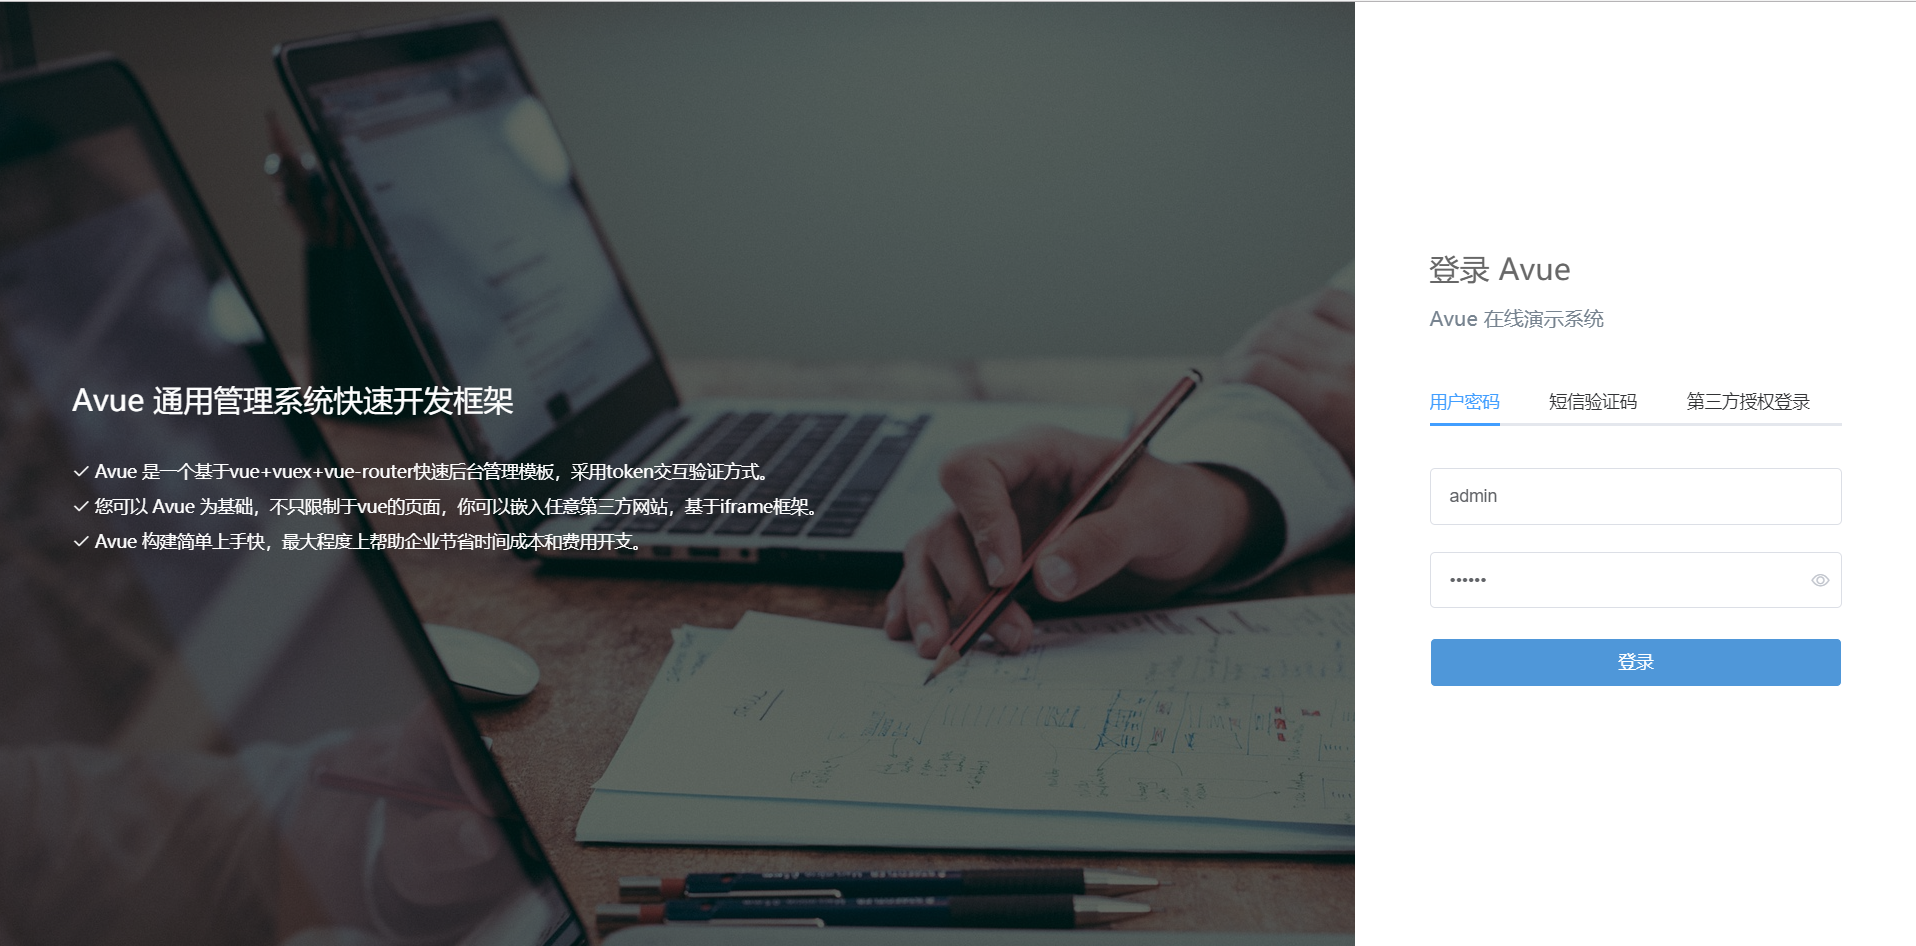
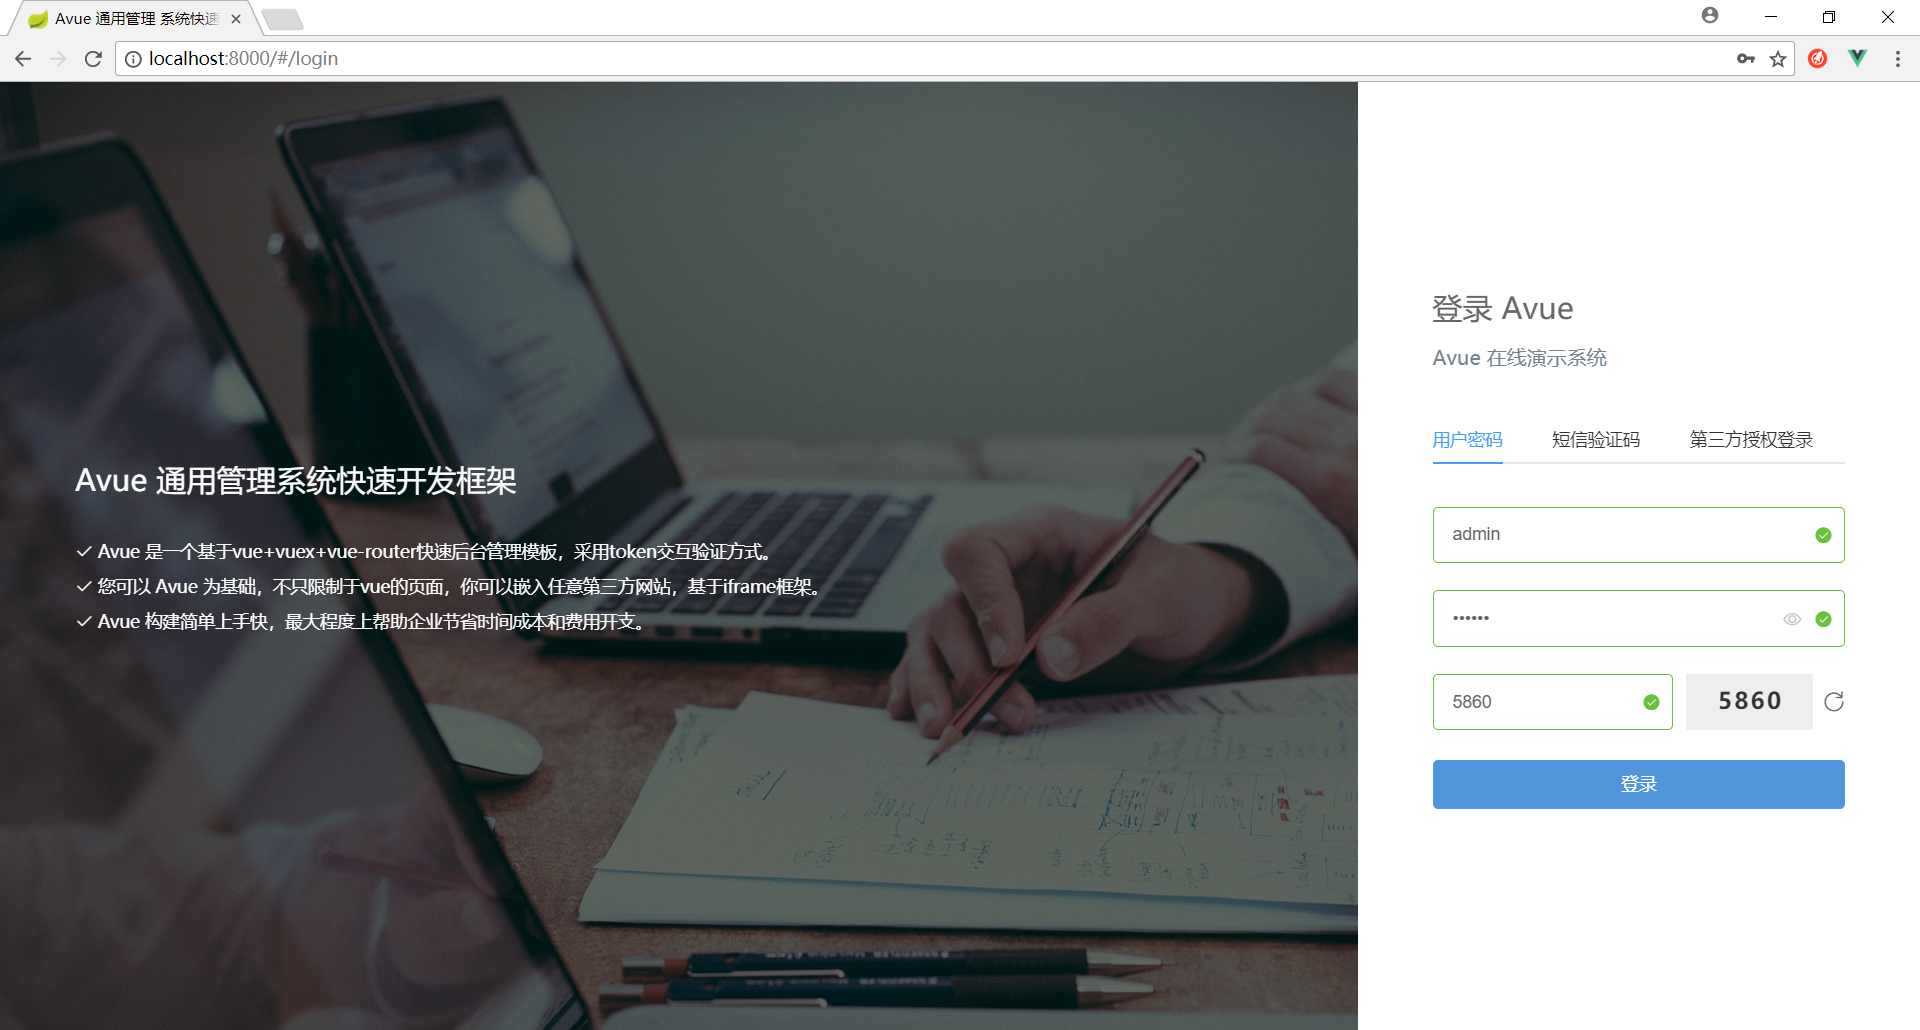
登录支持本地验证码和服务端验证码

diff --git a/src/page/login/userlogin.vue b/src/page/login/userlogin.vue
@@ -1,21 +1,37 @@
 <template>
    <el-form class="login-form" status-icon :rules="loginRules" ref="loginForm" :model="loginForm" label-width="0" >
         <el-form-item prop="username">
-        <el-input @keyup.enter.native="handleLogin" v-model="loginForm.username" auto-complete="off" placeholder="请输入用户名"></el-input>
+          <el-input @keyup.enter.native="handleLogin" v-model="loginForm.username" auto-complete="off" placeholder="请输入用户名"></el-input>
         </el-form-item>
         <el-form-item prop="password">
-        <el-input @keyup.enter.native="handleLogin" :type="passwordType" v-model="loginForm.password" auto-complete="off" placeholder="请输入密码">
-            <i class="el-icon-view el-input__icon" slot="suffix" @click="showPassword"></i>
-        </el-input>
+          <el-input @keyup.enter.native="handleLogin" :type="passwordType" v-model="loginForm.password" auto-complete="off" placeholder="请输入密码">
+              <i class="el-icon-view el-input__icon" slot="suffix" @click="showPassword"></i>
+          </el-input>
+        </el-form-item>
+        <el-form-item prop="code">
+          <el-row :span="24">
+            <el-col :span="14">
+                  <el-input @keyup.enter.native="handleLogin"  :maxlength="code.len" v-model="loginForm.code" auto-complete="off" placeholder="请输入验证码"></el-input>    
+            </el-col>
+             <el-col :span="10">
+               <div class="login-code">
+                  <span  class="login-code-img" @click="refreshCode" v-if="code.type == 'text'">{{code.value}}</span>
+                  <img :src="code.src" class="login-code-img" @click="refreshCode" v-else/>
+                  <i class="icon-shuaxin login-code-icon" @click="refreshCode"></i>
+               </div>
+            </el-col>
+          </el-row>
+          
         </el-form-item>
         <el-form-item>
-        <el-button type="primary" @click.native.prevent="handleLogin"  class="login-submit">登录</el-button>
+          <el-button type="primary" @click.native.prevent="handleLogin"  class="login-submit">登录</el-button>
         </el-form-item>
     </el-form>
 </template>
 
 <script>
 import { isvalidUsername } from "@/util/validate";
+import { randomLenNum } from "@/util/util";
 import { mapGetters } from "vuex";
 export default {
   name: "userlogin",
@@ -27,9 +43,11 @@ export default {
         callback();
       }
     };
-    const validatePassword = (rule, value, callback) => {
-      if (value.length < 6) {
-        callback(new Error("请输入大于6位数的密码"));
+    const validateCode = (rule, value, callback) => {
+      if (this.code.value != value) {
+        this.loginForm.code = "";
+        this.refreshCode();
+        callback(new Error("请输入正确的验证码"));
       } else {
         callback();
       }
@@ -37,26 +55,48 @@ export default {
     return {
       loginForm: {
         username: "admin",
-        password: "123456"
+        password: "123456",
+        code: "",
+        redomStr: ""
+      },
+      code: {
+        src: "",
+        value: "",
+        len: 4,
+        type: "text"
       },
       loginRules: {
         username: [
           { required: true, trigger: "blur", validator: validateUsername }
         ],
         password: [
-          { required: true, trigger: "blur", validator: validatePassword }
+          { required: true, message: "请输入密码", trigger: "blur" },
+          { min: 6, message: "密码长度最少为6位", trigger: "blur" }
+        ],
+        code: [
+          { required: true, message: "请输入验证码", trigger: "blur" },
+          { min: 4, max: 4, message: "验证码长度为4位", trigger: "blur" },
+          { required: true, trigger: "blur", validator: validateCode }
         ]
       },
       passwordType: "password"
     };
   },
-  created() {},
+  created() {
+    this.refreshCode();
+  },
   mounted() {},
   computed: {
     ...mapGetters(["tagWel"])
   },
   props: [],
   methods: {
+    refreshCode() {
+      this.loginForm.redomStr = randomLenNum(this.code.len, true);
+      this.code.type == "text"
+        ? (this.code.value = randomLenNum(this.code.len))
+        : (this.code.src = `${this.codeUrl}/${this.loginForm.redomStr}`);
+    },
     showPassword() {
       this.passwordType == ""
         ? (this.passwordType = "password")

diff --git a/src/util/util.js b/src/util/util.js
@@ -66,6 +66,10 @@ export const findParent = (menu, id) => {
         }
     };
 }
+
+/**
+ * 总体路由处理器
+ */
 export const resolveUrlPath = (url) => {
     let reqUrl = url;
     if (url.indexOf("http") != -1) {
@@ -128,3 +132,14 @@ export const findArray = (dic, value) => {
     }
     return -1;
 }
+/**
+ * 生成随机len位数字
+ */
+export const randomLenNum = (len, date) => {
+    let random = '';
+    random = Math.ceil(Math.random() * 100000000000000).toString().substr(0, len ? len : 4);
+    if (date) random = random + Date.now();
+    return random;
+}
+
+

diff --git a/src/config/env.js b/src/config/env.js
@@ -12,12 +12,13 @@
 
 
 let baseUrl = '';
-let iconfontVersion = '567566_e5xid5qooinklnmi';
-let iconfontUrl = `//at.alicdn.com/t/font_${iconfontVersion}.css`;
+let iconfontVersion = 'sxxk4dft8egq4cxr';
+let iconfontUrl = `//at.alicdn.com/t/font_567566_${iconfontVersion}.css`;
+let codeUrl = `${baseUrl}/code`
 if (process.env.NODE_ENV == 'development') {
 	baseUrl = `http://localhost`;
 } else if (process.env.NODE_ENV == 'production') {
 	baseUrl = `http://localhost`;
 }
 
-export { baseUrl, iconfontUrl }
+export { baseUrl, iconfontUrl, codeUrl }

diff --git a/src/store/modules/user.js b/src/store/modules/user.js
@@ -15,7 +15,7 @@ const user = {
         //根据用户名登录
         LoginByUsername({ commit, state, dispatch }, userInfo) {
             return new Promise((resolve, reject) => {
-                loginByUsername(userInfo.username, userInfo.password).then(res => {
+                loginByUsername(userInfo.username, userInfo.password, userInfo.code, userInfo.redomStr).then(res => {
                     const data = res.data;
                     commit('SET_TOKEN', data);
                     setToken(data);

diff --git a/src/page/login/index.vue b/src/page/login/index.vue
@@ -109,4 +109,24 @@ export default {
 .login-form {
   margin: 20px 0;
 }
+.login-code {
+  display: flex;
+  align-items: center;
+  justify-content: space-between;
+  margin: 0 0 0 10px;
+}
+.login-code-img {
+  width: 100px;
+  height: 43px;
+  background-color: #eee;
+  border: 1px solid #f0f0f0;
+  color: #333;
+  font-size: 18px;
+  font-weight: bold;
+  letter-spacing: 2px;
+  text-indent: 2px;
+  text-align: center;
+}
+.login-code-icon {
+}
 </style>

diff --git a/src/api/user.js b/src/api/user.js
@@ -2,7 +2,7 @@ import { baseUrl, khglUrl, dicUrl } from '@/config/env'
 import request from '@/router/axios'
 import { userInfo, tableData } from '@/mock/user'
 import { menu, menuAll } from '@/mock/menu'
-export const loginByUsername = (username, password) => {
+export const loginByUsername = (username, password, code, redomStr) => {
     return new Promise((resolve, reject) => {
         resolve({ data: new Date().getTime() });
     })

diff --git a/README.md b/README.md
@@ -18,7 +18,7 @@ github地址：[https://github.com/nmxiaowei/avue](https://github.com/nmxiaowei/
 `4.支持阿里巴巴图标库在线调用，自动同步图标` [阿里巴巴图标库](http://www.iconfont.cn/)<br /><br />
 `5.支持iframe嵌套第三方网站`[详细介绍](https://my.oschina.net/sunshineS/blog/1615716)<br /><br />
 `6.支持js动态可配CRUD和FORM,节约大量开发成本，配置字典接口自动匹配字典`<br /><br />
-`7.支持多种登录方式`<br /><br />
+`7.支持多种登录方式,本地验证码校验和服务端验证码校验`<br /><br />
 `8.全局错误日志记录`<br /><br />
 `9.scss模块化开发`<br /><br />
 `10.增加系统管理模板(用户管理,角色管理,菜单管理——基于本框架的crud组件自动生成)`<br /><br />
